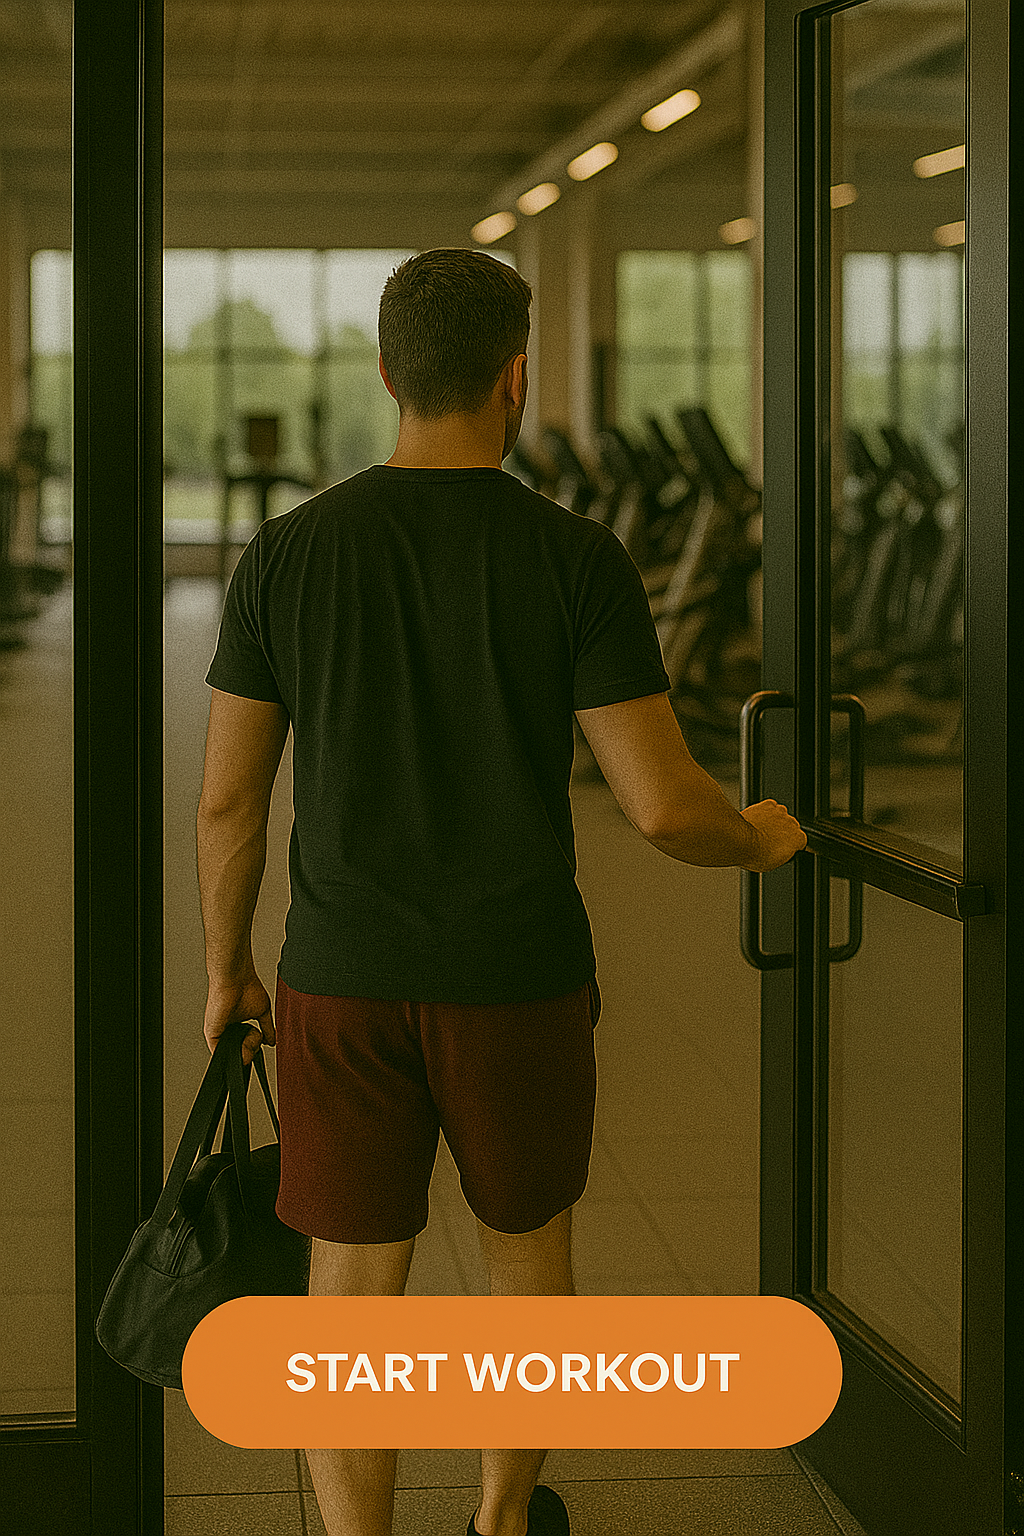
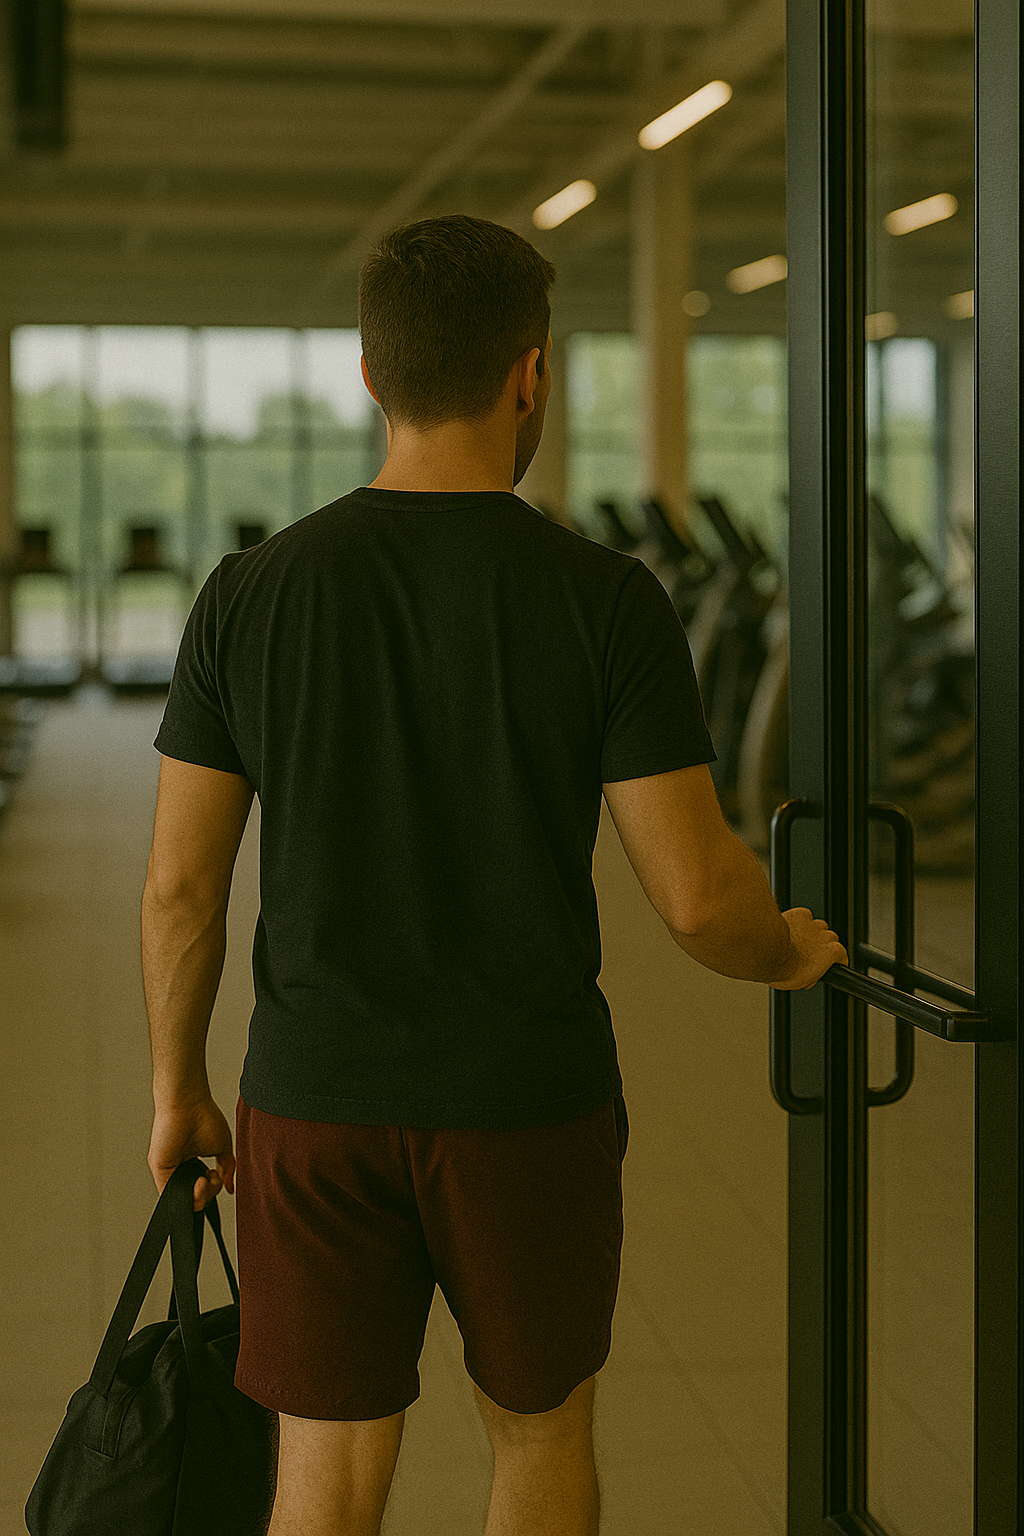
greeting side updatet

diff --git a/app/(protected)/greeting/page.tsx b/app/(protected)/greeting/page.tsx
@@ -25,13 +25,16 @@ export default async function GreetingPage() {
     <main className="mx-auto max-w-2xl p-6 space-y-6">
       <section className="space-y-4">
         <h1 className="text-2xl font-semibold">Velkommen {userName}.</h1>
-        <Link href="/workout/today" className="block group rounded-2xl overflow-hidden border border-muted shadow-sm">
-          <Image
-            src={startWorkoutImg}
-            alt="Start træning"
-            priority
-            className="h-auto w-full transition-transform duration-200 group-hover:scale-[1.01]"
-          />
+        <Link
+          href="/workout/today"
+          className="block group rounded-2xl overflow-hidden border border-muted shadow-sm relative"
+        >
+          <Image src={startWorkoutImg} alt="Start træning" priority className="h-auto w-full" />
+          <div className="absolute inset-0 grid place-items-center">
+            <span className="inline-flex items-center justify-center rounded-full bg-primary px-6 py-3 text-primary-foreground shadow-lg ring-1 ring-primary/30 backdrop-blur-md transition-transform duration-150 group-hover:scale-105">
+              Start træning
+            </span>
+          </div>
         </Link>
       </section>
     </main>
